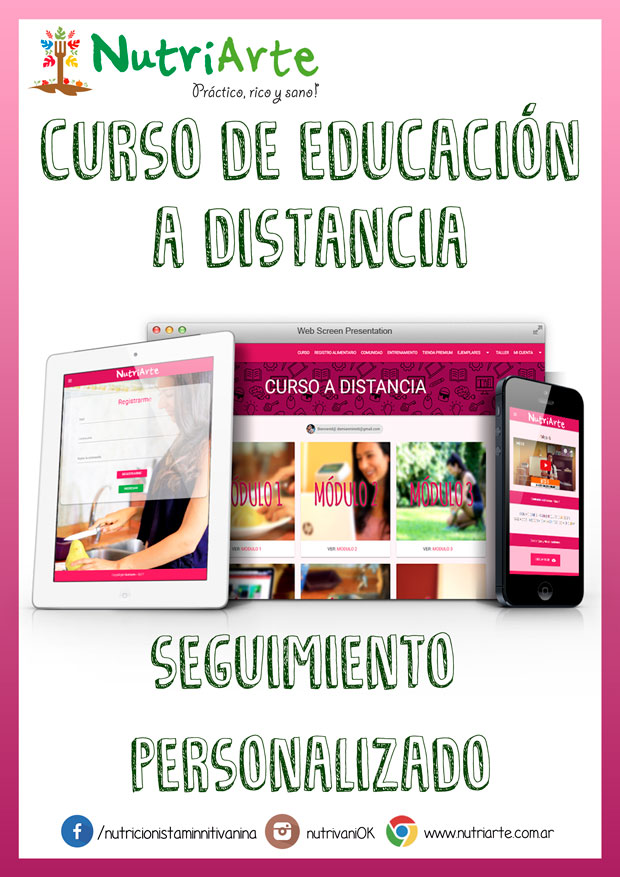
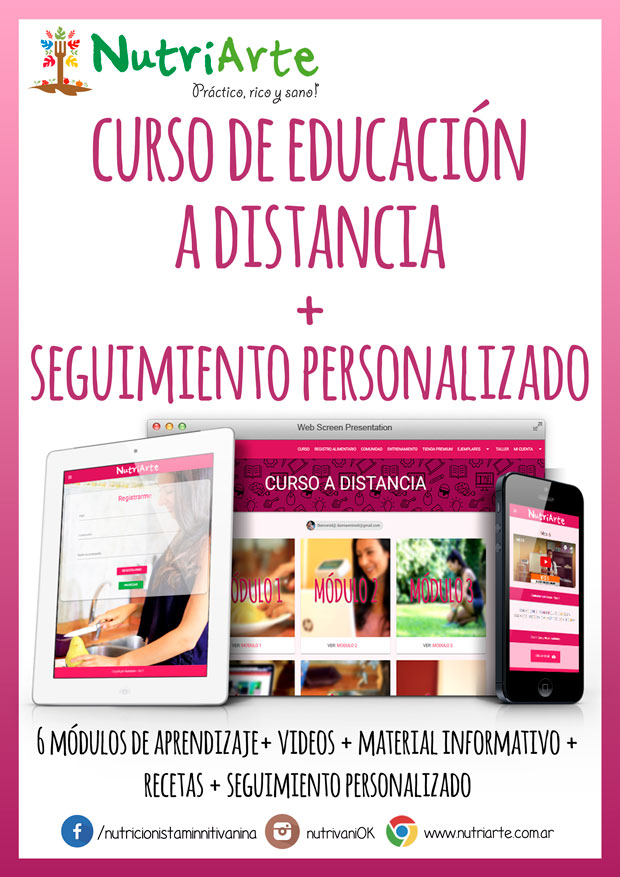
Add new service

diff --git a/tienda.html b/tienda.html
@@ -165,9 +165,9 @@
 
             <div class="col-lg-offset-1 col-lg-2 col-md-4 col-sm-6 col-xs-12">
                 <div class="wrapper shake-slow shake-constant">
-                    <img src="images/ejemplar/portadaDulces.jpg" alt="Curso"/>
+                    <img src="images/ejemplar/portadaSeguimiento.jpg" alt="Online tracing"/>
                     <a mp-mode="dftl"
-                       href="https://www.mercadopago.com/mla/checkout/start?pref_id=192851636-f4789f11-7431-42eb-92be-d2112f420121"
+                       href="https://www.mercadopago.com/mla/checkout/start?pref_id=239499703-b5dd4e06-4adc-40ec-94fd-378e4b5556fd"
                        name="MP-payButton" class='btn btn-primary background-btn-pink'>Comprar</a>
                     <script type="text/javascript">
                         (function () {
@@ -186,12 +186,12 @@
                             window.$MPC_loaded !== true ? (window.attachEvent ? window.attachEvent('onload', $MPC_load) : window.addEventListener('load', $MPC_load, false)) : null;
                         })();
                     </script>
-                    <a class='btn btn-primary' href="services_details.html#magazineSweet">Ver más</a>
+                    <a class='btn btn-primary' href="requisitos.html#tracing">Ver más</a>
 
                     <div class="ribbon-wrapper-new">
                         <div class="ribbon-new">NUEVO</div>
                     </div>
-                    <h3 class="text-center price"><strong>$200</strong></h3>
+                    <h3 class="text-center price"><strong>$500</strong></h3>
                 </div>
                 
             </div>

diff --git a/requisitos.html b/requisitos.html
@@ -253,7 +253,7 @@
                     <h1>Contratá ÚNICAMENTE el servicio de "SEGUIMIENTO PERSONALIZADO"</h1>
                     <a href="http://mpago.la/VgcH" target="_blank"
                        class="btn btn-neutral btn-lg btn-fill">OBTENER AHORA</a>
-                    <p>Incluye Registro alimentario + Comunidad + Tienda premium + Planes de entrenamiento</p>
+                    <p>Incluye plan de alimentación saludable (Guía para el inicio de cambios) + registro alimentario + Comunidad + Tienda premium + Planes de entrenamiento</p>
                     <div class="text-center">
                         <a type="button" class="btn btn-lg btn-fill btn-success" href="images/educacion/SEGUIMIENTO.pdf"
                            target="_blank">
